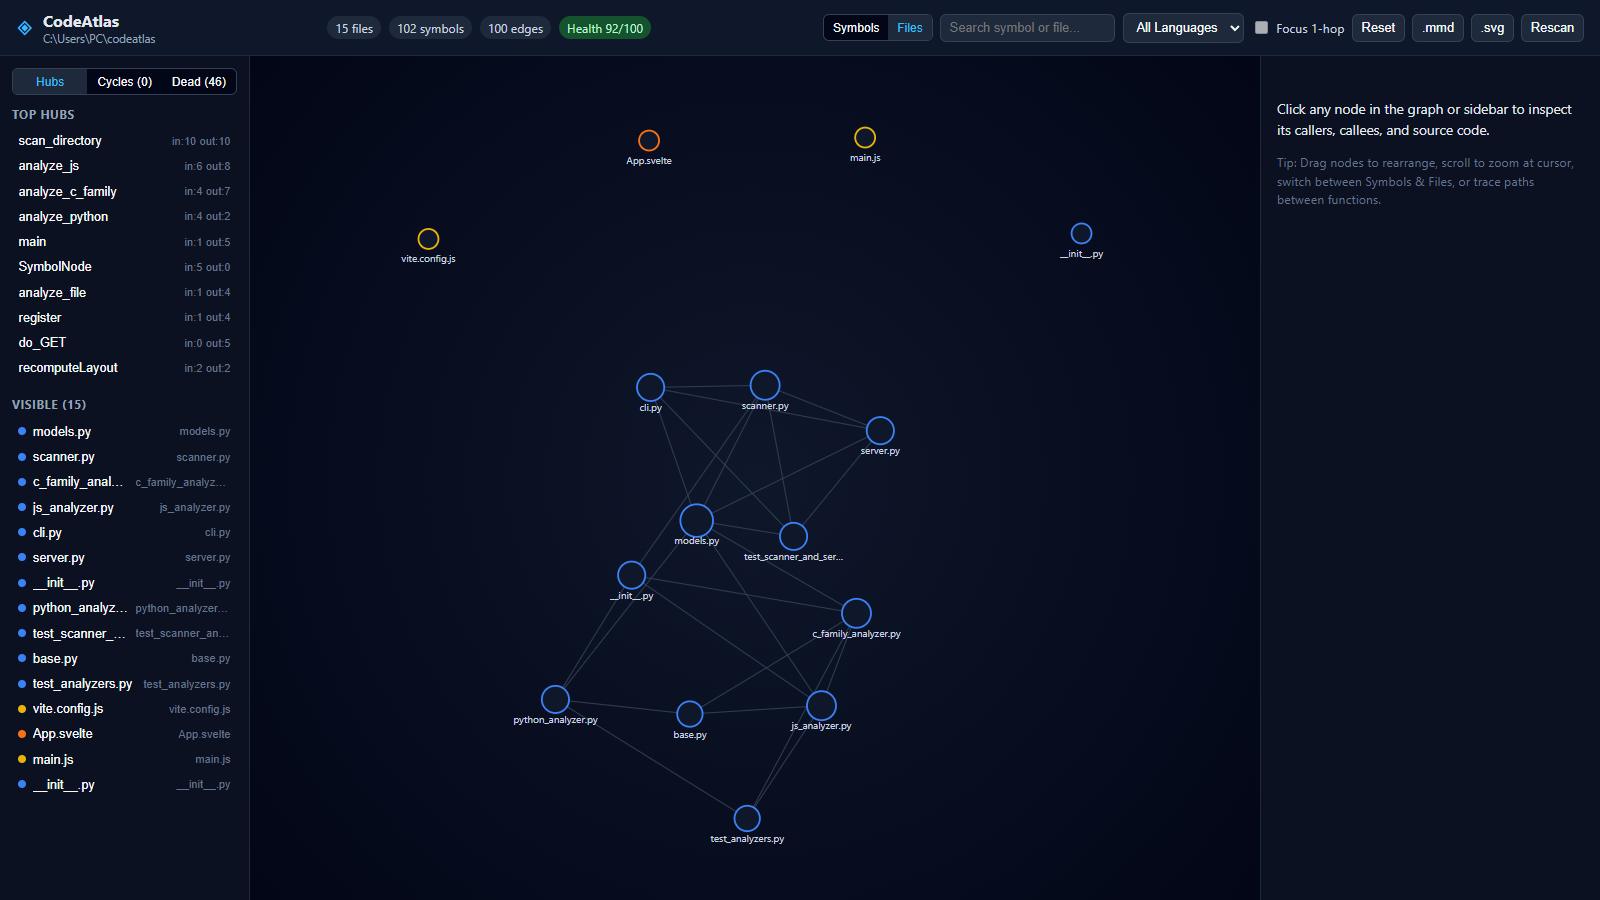
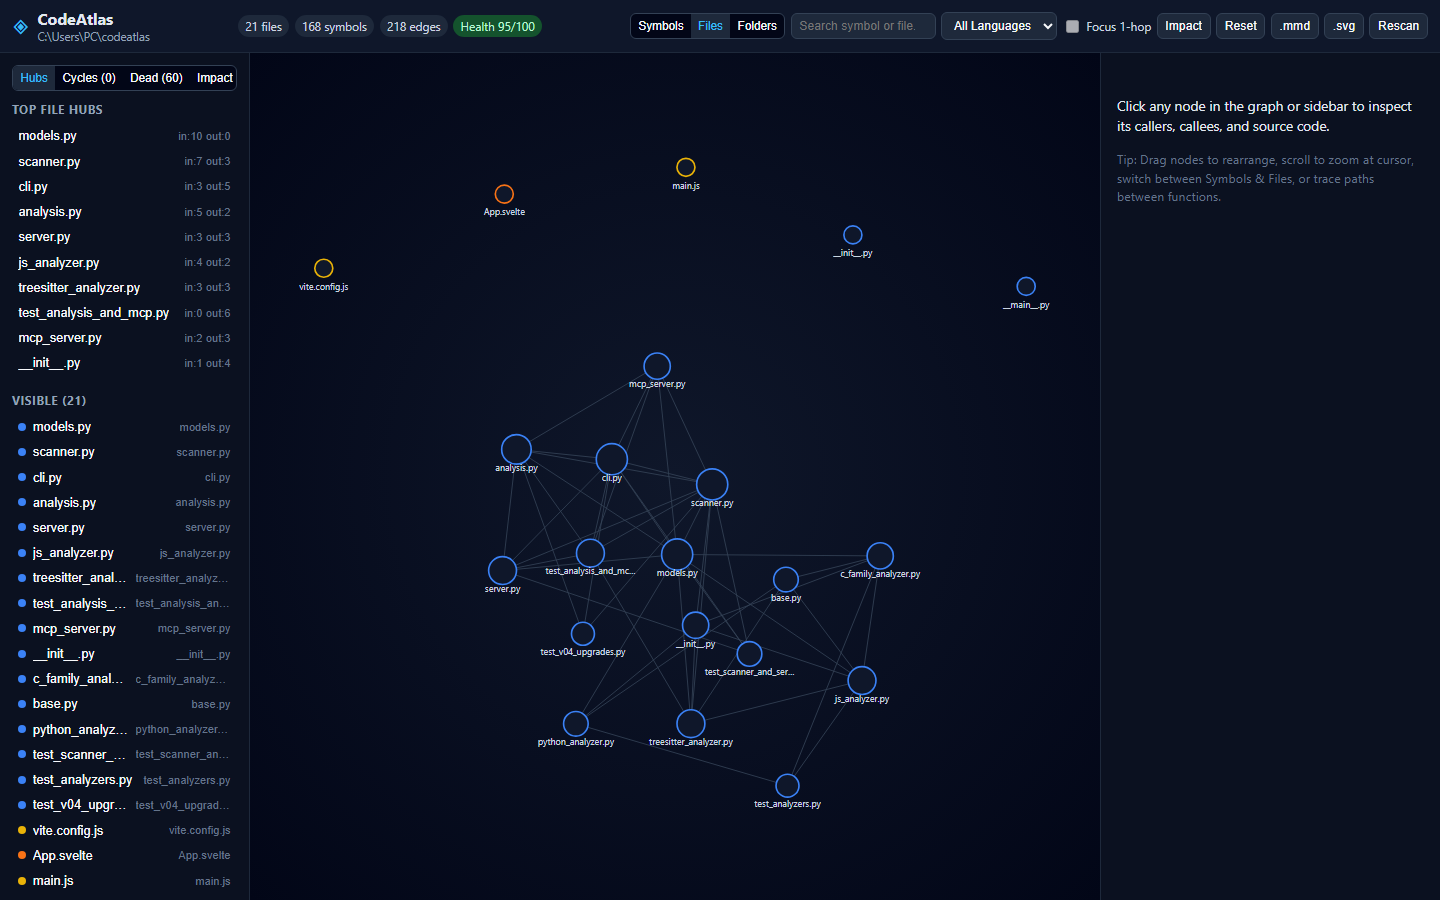
docs(ci): add README badges, refresh v0.4.0 demo GIF/screenshots & dogfood codeatlas check in CI

diff --git a/README.md b/README.md
@@ -1,6 +1,12 @@
 # CodeAtlas
 
-**Zero-config local codebase architecture & call-graph visualizer.**
+[![CI](https://github.com/kutyfuty/codeatlas/actions/workflows/ci.yml/badge.svg)](https://github.com/kutyfuty/codeatlas/actions/workflows/ci.yml)
+[![PyPI](https://img.shields.io/pypi/v/codeatlas-viz)](https://pypi.org/project/codeatlas-viz/)
+[![Python](https://img.shields.io/pypi/pyversions/codeatlas-viz)](https://pypi.org/project/codeatlas-viz/)
+[![Zero Dependencies](https://img.shields.io/badge/dependencies-0-brightgreen.svg)](pyproject.toml)
+[![License: MIT](https://img.shields.io/badge/license-MIT-blue.svg)](LICENSE)
+
+**Zero-config local codebase architecture, call-graph, blast-radius & MCP tool.**
 
 Inspect functions, classes, call-graph hubs, unreferenced ("dead") code, circular dependencies, and shortest call paths in your terminal or browser—with zero cloud uploads, zero configuration files, and zero runtime dependencies for the CLI.
 
